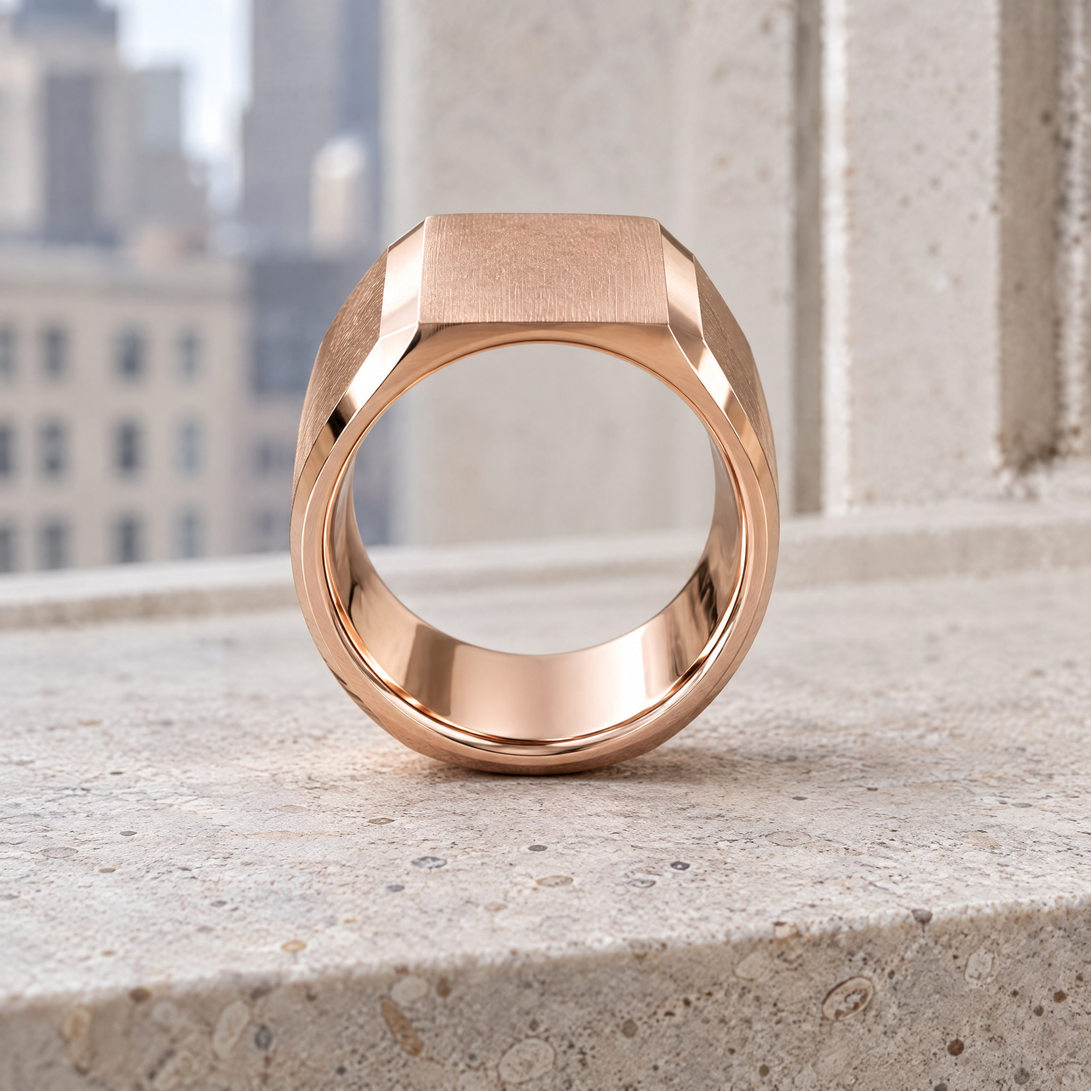
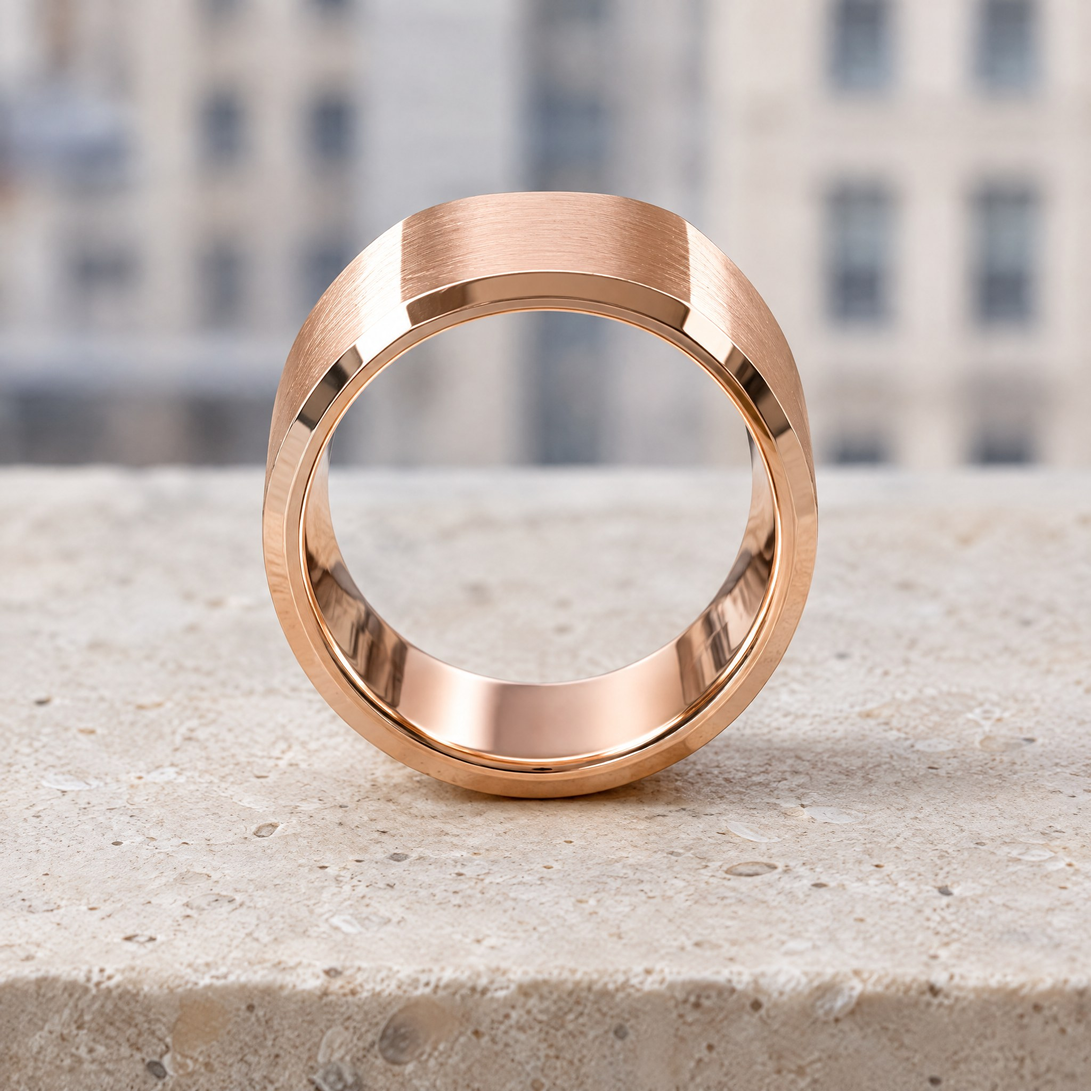
fix(jade): re-render Beveled rose 04/07 with anti-signet product lock
Claude-Session: https://claude.ai/code/session_0185bxNNjP726zHLKJ9XFNWr

diff --git a/scripts/jade-eon-top10/prompts.py b/scripts/jade-eon-top10/prompts.py
@@ -38,7 +38,7 @@ MODELS = {
     "07": ("kinetic", "Kinetic Bead", "a SLIM band about 2mm wide with a polished half-round profile, carrying ONE small polished gold bead that sits in a shallow channel on the band and glides freely around it. Only one bead. Comfort-fit interior.", "the single gliding bead in its channel", None),
     "08": ("greekkey", "Greek Key", "about 8mm wide. Raised continuous GREEK KEY (meander) pattern in the center on a finely textured recessed ground, framed by a row of milgrain beads and a braided ROPE rail on each side, polished edges and polished comfort-fit interior. The key pattern must stay coherent, no broken turns.", "the Greek key turns, milgrain row and rope rail", (6, 8, 10)),
     "09": ("twotone", "Two-Tone", "about 7mm wide, TWO-TONE: narrow high-polish stepped edge rails in {M}, and a center band in {A} with DIAMOND-CUT diagonal facets over a fine frosted texture. Polished comfort-fit interior in {M}.", "the diamond-cut facets of the center against the polished rails", (6, 8, 10)),
-    "10": ("beveled", "Beveled", "about 6mm wide, flat top. BRUSHED SATIN flat top with a HIGH-POLISH 45-degree BEVEL along each edge. Polished comfort-fit interior.", "the brushed top meeting the polished bevel", (4, 6, 8)),
+    "10": ("beveled", "Beveled", "about 6mm wide, flat top. BRUSHED SATIN flat top with a HIGH-POLISH 45-degree BEVEL along each edge. Polished comfort-fit interior. A plain BAND of uniform width and thickness all the way around, a perfect circle, NOT a signet ring: no flat top plate, no raised face, no thicker section anywhere.", "the brushed top meeting the polished bevel", (4, 6, 8)),
 }
 
 METALS = {

diff --git a/docs/jade/eon-top10/README.md b/docs/jade/eon-top10/README.md
@@ -74,7 +74,7 @@ Model: `gpt_image_2_5`, 1:1, 2K, medium quality = 1 credit/image.
 ## Status
 - [x] Step 1 · matrix + pricing rule verified against live EON grids
 - [x] Step 2 · canon test, model 01 × 3 metals (`test/`)
-- [x] Step 3 · 300 images in `public/jade/eon-top10/` (open defect: 10-beveled-rose 04 + 07 read as signet, re-render pending approval)
+- [x] Step 3 · 300 images in `public/jade/eon-top10/` (10-beveled-rose 04 re-rendered 2026-09-25 with anti-signet lock; 07 still shows a thickened top, open)
 - [x] Step 4 · titles, descriptions, tags (`catalog.json`, generator `scripts/jade-eon-top10/catalog.py`)
 - [x] Step 5 · 30 panel drafts live in Listing Önerileri (migration `0151`)
 - [ ] Step 6 · Etsy canary: flag set true 2026-09-24; generic create path supports 3 axes (this PR). Needs merge + deploy first
